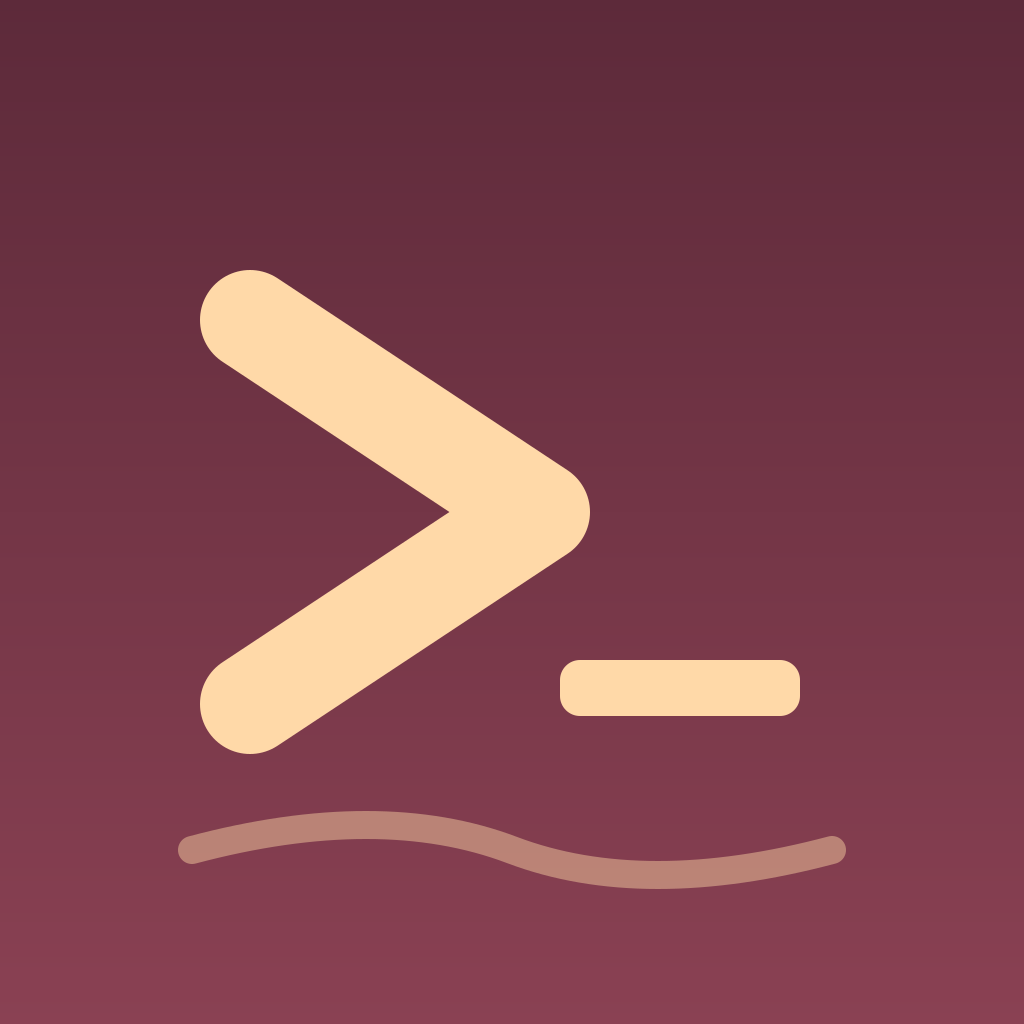
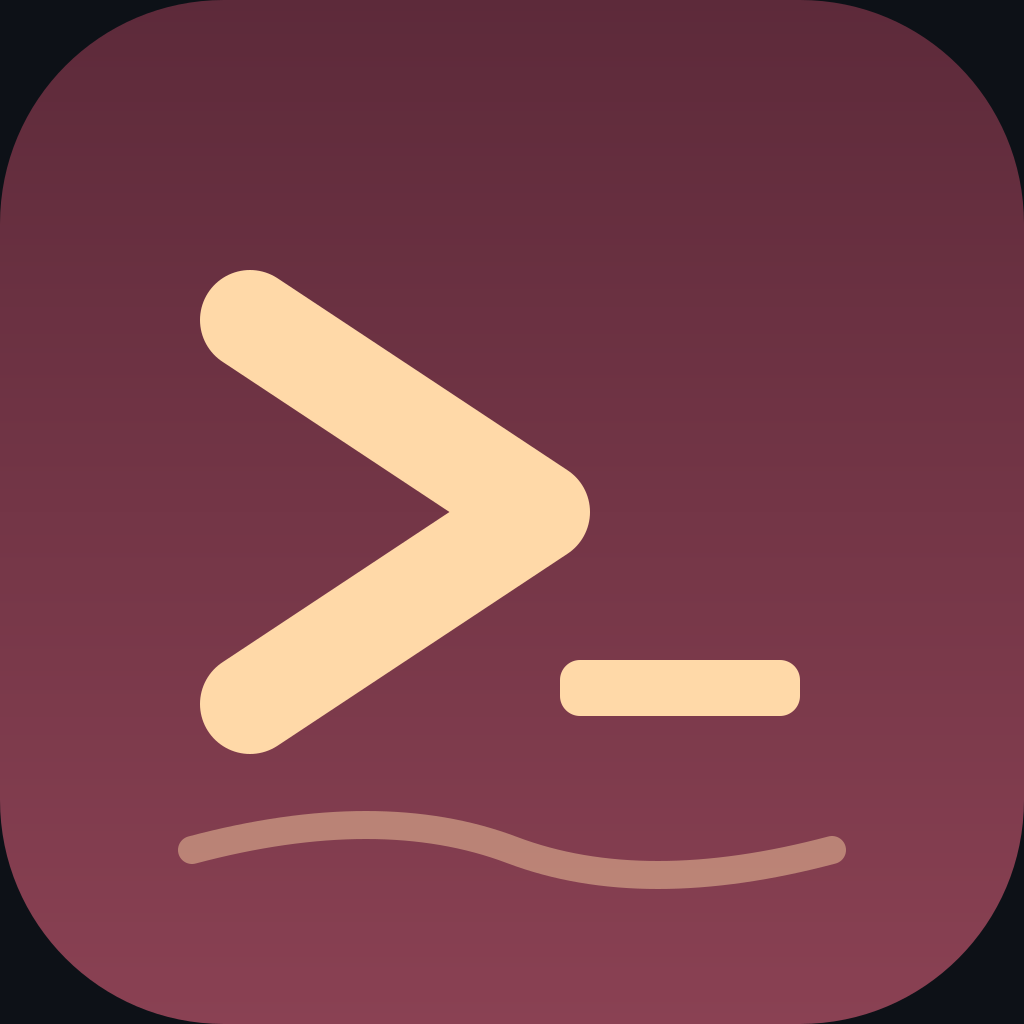
Give the animation a solid background per theme (MWEB-42)
GitHub paints a lighter rounded box behind any README image with
see-through pixels, so the see-through animation sat in a grey square
on the dark theme. Two solid copies, on GitHub's dark (#0d1117) and
light (#ffffff) page colours, chosen with <picture> by the viewer's
theme, blend into the page. The org avatar file now matches the one
uploaded: the rounded icon on GitHub's dark colour, so it keeps the
app icon's shape.

Claude-Session: https://claude.ai/code/session_01ARThwtqk1DSj1dgSVMZoDq

diff --git a/profile/README.md b/profile/README.md
@@ -1,6 +1,9 @@
 <div align="center">
 
-<img src="https://raw.githubusercontent.com/mooring-sh/.github/main/assets/assistant.png" alt="The Mooring Assistant waving, looking out, cheering and saluting" width="120" height="96">
+<picture>
+  <source media="(prefers-color-scheme: dark)" srcset="https://raw.githubusercontent.com/mooring-sh/.github/main/assets/assistant-dark.png">
+  <img src="https://raw.githubusercontent.com/mooring-sh/.github/main/assets/assistant-light.png" alt="The Mooring Assistant waving, looking out, cheering and saluting" width="120" height="96">
+</picture>
 
 # Mooring
 
